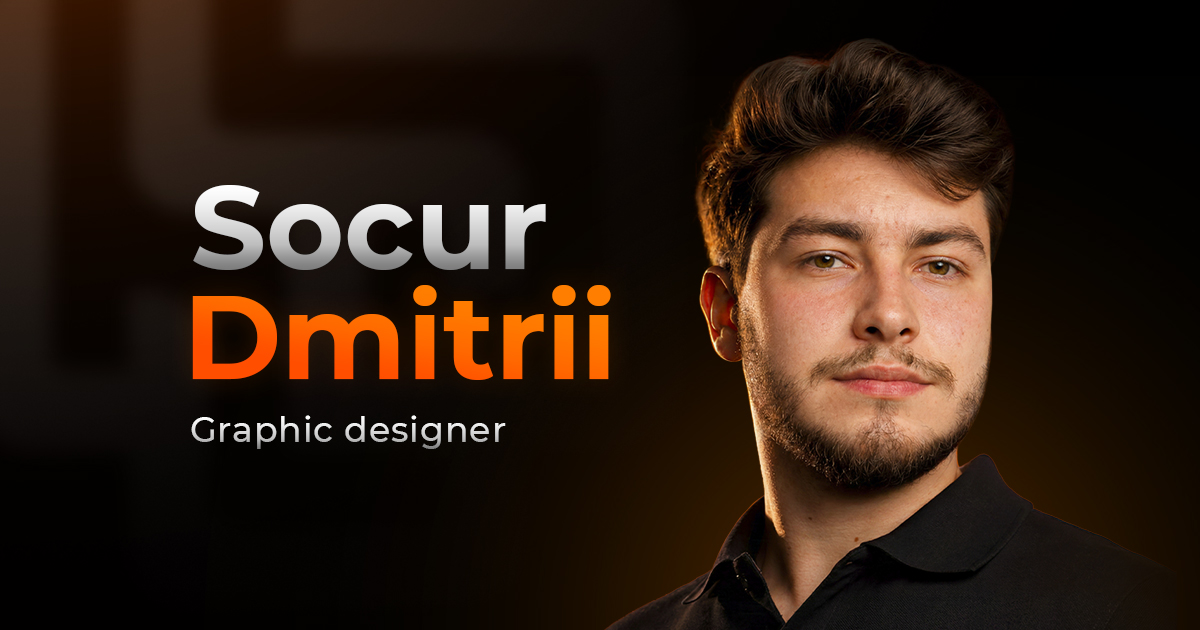
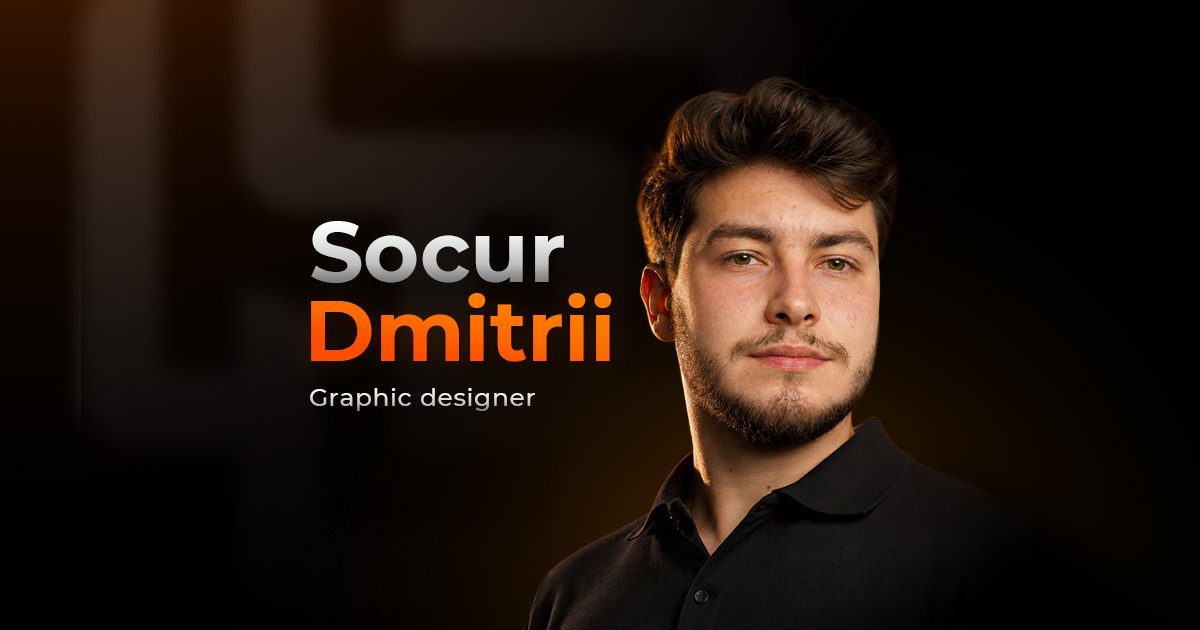
правки #68

diff --git a/src/app/layout.tsx b/src/app/layout.tsx
@@ -41,17 +41,17 @@ export const viewport: Viewport = {
 // будет без картинки.
 export const metadata: Metadata = {
   metadataBase: new URL("https://socurdmitrii.com"),
-  title: "Socur Dmitrii — Graphic Designer",
+  title: "Socur Dmitrii - Graphic Designer",
   description: "Brand identity, visual design and art direction portfolio.",
   openGraph: {
-    title: "Socur Dmitrii — Graphic Designer",
+    title: "Socur Dmitrii - Graphic Designer",
     description: "Brand identity, visual design and art direction portfolio.",
     type: "website",
     images: ["/images/og-cover.jpg"],
   },
   twitter: {
     card: "summary_large_image",
-    title: "Socur Dmitrii — Graphic Designer",
+    title: "Socur Dmitrii - Graphic Designer",
     description: "Brand identity, visual design and art direction portfolio.",
     images: ["/images/og-cover.jpg"],
   },
